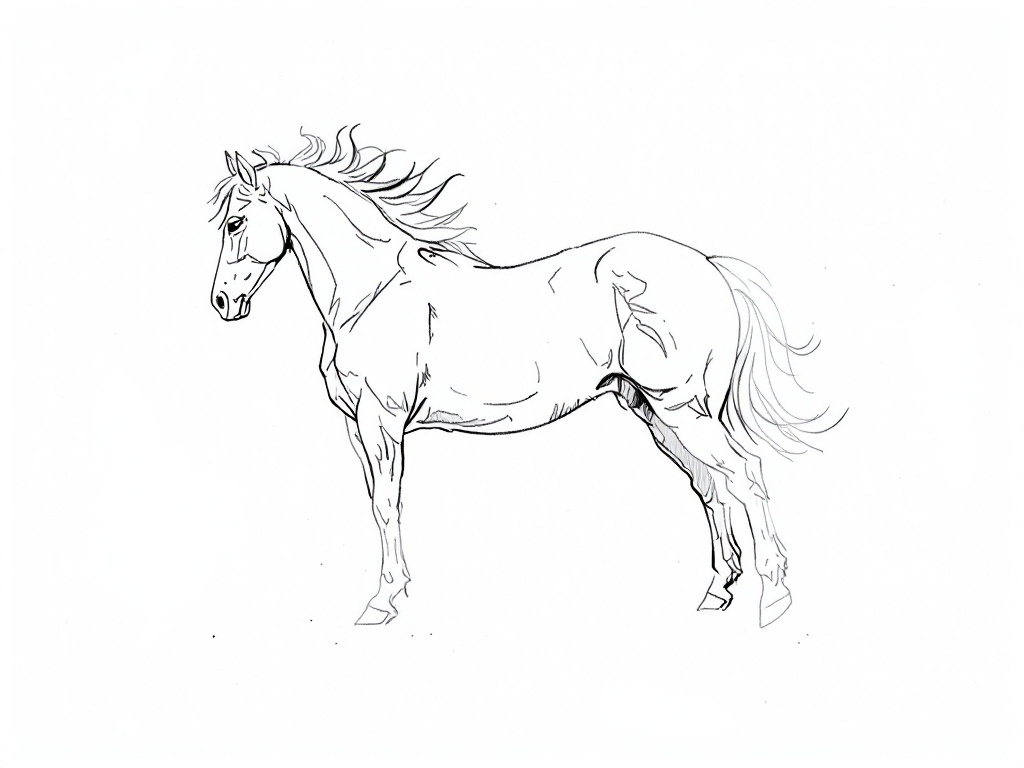
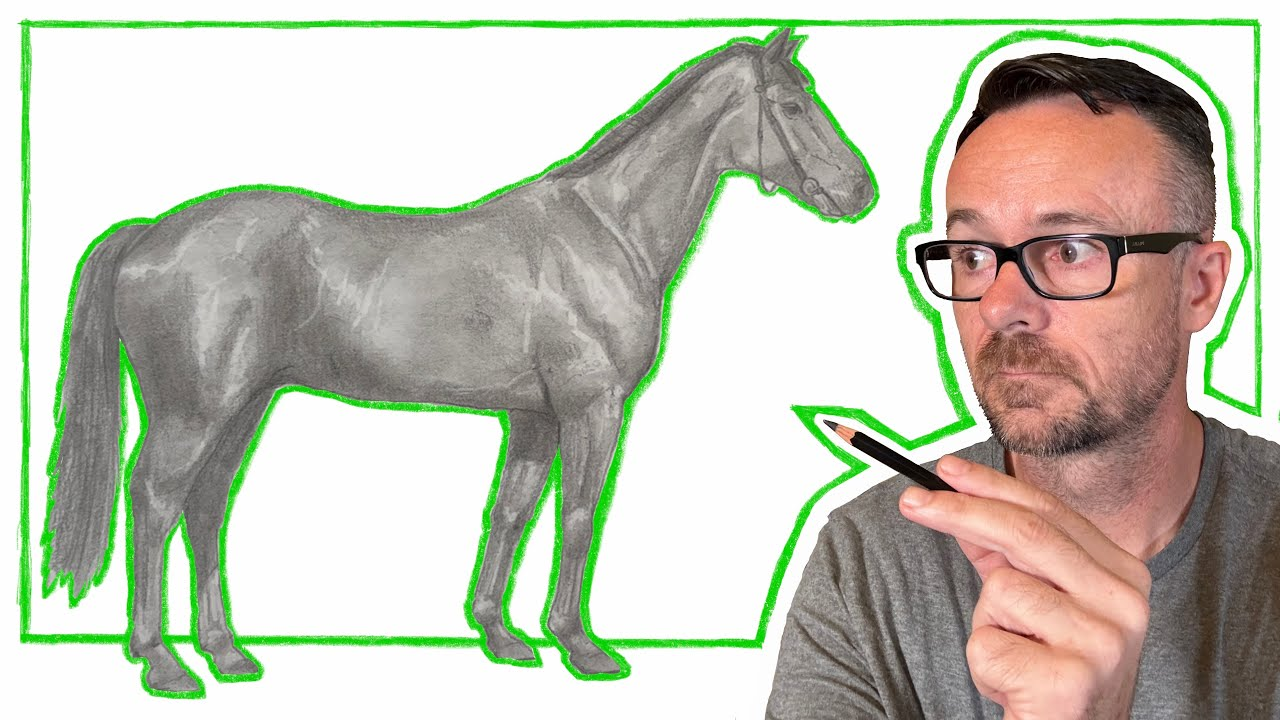
Omgöring: realistiska kapitel-indelade videor för alla 16 djur + bilder hämtade från videorna
- Alla 16 videor utbytta mot realistiska pennteckningar (ej cartoon) med verifierade kapitel/steg inuti videon
- stegTider[4] för alla djur: stegknapparna hoppar exakt till videons eget kapitel
- assets/<id>.jpg är nu bilder (thumbnail/bildrutor) hämtade från respektive video – resultatbilden kommer alltså från videon
- README uppdaterad

diff --git a/data.js b/data.js
@@ -4,8 +4,8 @@ const DJUR = [
     namn: "Katt",
     emoji: "🐱",
     nivå: 1,
-    video: "budL5362x9I",
-    stegTider: [31, 86, 116, 137],
+    video: "GS8f4120nx4",
+    stegTider: [14, 157, 232, 444],
     sök: "rita en katt steg för steg med kapitel youtube barn",
     tips: "Tips: katten har lång svans som pekar uppåt och spetsiga öron – börja med dem!",
     stegNamn: ["Grundform: kropp, ben, öron och svans", "Skuggning: mörkare under buken och på benen", "Detaljer: ögon, nos, morrhår", "Slutfinish: ljus på ryggen + vit prick i ögat"],
@@ -27,7 +27,8 @@ const DJUR = [
     namn: "Hund",
     emoji: "🐶",
     nivå: 1,
-    video: "uSnC2SdemX4",
+    video: "ay636bGEIhE",
+    stegTider: [53, 602, 313, 788],
     sök: "rita en söt hund på 1 minut steg för steg barn",
     tips: "Tips: hundens öron hänger ner – det är det som gör att det blir en hund och inte en katt!",
     stegNamn: ["Grundform: kropp, huvud och svans", "Skuggning: under buken och på benen", "Detaljer: ögon, nos, hängande öra och hovar", "Slutfinish: ljus på ryggen"],
@@ -49,7 +50,8 @@ const DJUR = [
     namn: "Kanin",
     emoji: "🐰",
     nivå: 1,
-    video: "TmsosyfwNek",
+    video: "Kt_en2uWCOg",
+    stegTider: [0, 666, 249, 745],
     sök: "rita en kanin på en minut one minute art barn",
     tips: "Tips: kaninen har ett stort bakben och två jättelånga öron – det är nyckeln till att det blir en kanin!",
     stegNamn: ["Grundform: kropp, långa öron och bakben", "Skuggning: under buken och på benen", "Detaljer: ögon, rosa nos och morrhår", "Slutfinish: ljus på ryggen"],
@@ -71,7 +73,8 @@ const DJUR = [
     namn: "Fågel",
     emoji: "🐦",
     nivå: 1,
-    video: "mHBVshs32hc",
+    video: "cPO-xH_TDhU",
+    stegTider: [0, 264, 342, 443],
     sök: "rita en fågel på en minut steg för steg barn",
     tips: "Tips: fågeln från sidan – rund kropp, litet huvud med trekantig näbb och två tunna ben.",
     stegNamn: ["Grundform: kropp, huvud, näbb och ben", "Skuggning: ljus mage, mörk vinge", "Detaljer: öga och fjädrar på vingen", "Slutfinish: ljus på huvudet"],
@@ -93,7 +96,8 @@ const DJUR = [
     namn: "Fisk",
     emoji: "🐟",
     nivå: 1,
-    video: "4PeLeY6VQmY",
+    video: "iqjm-zggyVc",
+    stegTider: [21, 305, 72, 491],
     sök: "rita en fisk steg för steg skuggning barn",
     tips: "Tips: fisken är bredast i mitten, smal vid munnen och har fenor ovanpå och under.",
     stegNamn: ["Grundform: kropp, stjärt och fenor", "Skuggning: mörk ovanpå, ljus under", "Detaljer: öga, mun, gälar och fjäll", "Slutfinish: bubblor + ljus i ögat"],
@@ -115,8 +119,8 @@ const DJUR = [
     namn: "Gris",
     emoji: "🐷",
     nivå: 1,
-    video: "DLqEfg9iHMM",
-    stegTider: [12, 35, 282, 296],
+    video: "pfdzh7_qAfQ",
+    stegTider: [14, 333, 113, 456],
     sök: "rita en gris på 1 minut steg för steg barn",
     tips: "Tips: grisens tryne ska sitta längst fram på huvudet – och svansen ska vara en liten krull!",
     stegNamn: ["Grundform: tjock kropp, tryne och krullsvans", "Skuggning: under buken och på benen", "Detaljer: ögon, näsborrar, hovar och fläck", "Slutfinish: ljusrosa rygg"],
@@ -138,7 +142,8 @@ const DJUR = [
     namn: "Anka",
     emoji: "🦆",
     nivå: 1,
-    video: "yMK7tMMjRUo",
+    video: "FRJ7mHa-Pug",
+    stegTider: [0, 175, 377, 528],
     sök: "rita en anka på en minut steg för steg barn",
     tips: "Tips: en anka simmar gärna – rita kroppen platt ovanför vattenlinjen och huvudet med platt näbb!",
     stegNamn: ["Grundform: kropp på vattnet, huvud och näbb", "Skuggning: i vattnet och under huvudet", "Detaljer: öga och vinge", "Slutfinish: ljus på huvudet + vågor"],
@@ -206,7 +211,8 @@ const DJUR = [
     namn: "Räv",
     emoji: "🦊",
     nivå: 2,
-    video: "x4lfxxYQx34",
+    video: "azT0Oev-dy0",
+    stegTider: [0, 78, 450, 900],
     sök: "rita en räv på under 3 minuter steg för steg barn",
     tips: "Tips: räven har spetsig nos, spetsiga öron och en stor buskig svans med vit spets.",
     stegNamn: ["Grundform: smal kropp, spetsig nos och stor svans", "Skuggning: under buken och längs svansen", "Detaljer: ögon, svart nos, vit bröstfläck och svansspets", "Slutfinish: ljus på ryggen"],
@@ -228,7 +234,8 @@ const DJUR = [
     namn: "Apa",
     emoji: "🐵",
     nivå: 2,
-    video: "9fiG2q9fCF4",
+    video: "EeYGoQ6Mdp4",
+    stegTider: [0, 189, 472, 772],
     sök: "rita en apa på två minuter steg för steg barn",
     tips: "Tips: sittande apa – ljus ansiktsmask inuti mörkare huvud, lång arm och en svans som krullar sig.",
     stegNamn: ["Grundform: sittande kropp, ansikte och krullsvans", "Skuggning: under buken och på armen", "Detaljer: ögon, näsborrar och mun", "Slutfinish: ljus på ansiktet"],
@@ -250,7 +257,8 @@ const DJUR = [
     namn: "Tiger",
     emoji: "🐯",
     nivå: 2,
-    video: "SOZ-v-fylWQ",
+    video: "61ixa41zCSM",
+    stegTider: [0, 379, 483, 647],
     sök: "rita en tiger på under 60 sekunder shorts steg för steg",
     tips: "Tips: tiger = stor katt med svarta ränder – rita ränderna som korta, ojämna streck över hela kroppen.",
     stegNamn: ["Grundform: kraftig kropp, öron och svans", "Skuggning: ljus buk, mörka ben", "Detaljer: svarta ränder, ögon, nos och hovar", "Slutfinish: ljus på ryggen"],
@@ -272,7 +280,8 @@ const DJUR = [
     namn: "Ko",
     emoji: "🐮",
     nivå: 2,
-    video: "ygWQuM3P8n0",
+    video: "EuuXK_YZUD8",
+    stegTider: [0, 413, 657, 765],
     sök: "rita en ko på en minut steg för steg barn",
     tips: "Tips: kossan känns igen på hornen, öronen åt sidan, rosa trynet och de svarta fläckarna.",
     stegNamn: ["Grundform: stor kropp, horn, öron och svans", "Skuggning: under buken och på benen", "Detaljer: svarta fläckar, ögon, näsborrar och hovar", "Slutfinish: ljus på ryggen"],
@@ -294,7 +303,8 @@ const DJUR = [
     namn: "Lejon",
     emoji: "🦁",
     nivå: 2,
-    video: "5rQQBkFFjrY",
+    video: "hJFkrqOMyXE",
+    stegTider: [0, 177, 476, 879],
     sök: "rita ett lejon på 2 minuter steg för steg nybörjare",
     tips: "Tips: börja med lejonet – en stor mörk cirkel bakom huvudet. Själva huvudet är cirkeln inuti.",
     stegNamn: ["Grundform: kropp, stor lejon och svans", "Skuggning: under buken, benen och runt lejonet", "Detaljer: streck i lejonet, ögon, nos och hovar", "Slutfinish: ljust bröst"],
@@ -316,7 +326,8 @@ const DJUR = [
     namn: "Häst",
     emoji: "🐴",
     nivå: 3,
-    video: "rCqMntZt-iE",
+    video: "3HYm3SAS2YU",
+    stegTider: [32, 366, 509, 740],
     sök: "rita en häst på 2 minuter steg för steg barn",
     tips: "Tips: hästen har lång hals och långt huvud – rita halsen som ett avlångt band upp från kroppen.",
     stegNamn: ["Grundform: kropp, lång hals, huvud och man", "Skuggning: under buken, benen och halsen", "Detaljer: öga, näsborre, hovar och extra man", "Slutfinish: ljus längs ryggen"],
@@ -338,7 +349,8 @@ const DJUR = [
     namn: "Elefant",
     emoji: "🐘",
     nivå: 3,
-    video: "E9WkeXzASTY",
+    video: "WykVhlv1tr4",
+    stegTider: [30, 105, 195, 270],
     sök: "rita en elefant på 2 minuter steg för steg barn",
     tips: "Tips: elefanten känns igen på de stora öronen, den långa snabeln och de pelarliknande benen.",
     stegNamn: ["Grundform: jättekropp, öra, snabel och pelarben", "Skuggning: under buken, benen, snabeln och örat", "Detaljer: öga, tånaglar och mun", "Slutfinish: stor ljus båge på ryggen"],

diff --git a/README.md b/README.md
@@ -5,9 +5,9 @@ En interaktiv teckningsguide på svenska för barn (ca 8–12 år) – tänkt so
 ## Funktioner
 
 - **16 djur** (katt, hund, kanin, fågel, fisk, gris, anka, uggla, björn, räv, apa, tiger, ko, lejon, häst, elefant) – varje djurkort visar tydligt **hur den färdiga bilden blir**.
-- **Realistiska bilder i enhetlig stil** – varje djur har en AI-genererad, realistisk pennteckning i sidvy på vit bakgrund (`assets/<id>.jpg`), som visas på djurkorten, i "Så här blir resultatet!", i quizet och som spårningsbild på ritytan. Steg-för-steg-vyn använder dessutom schematiska SVG-steg (grundform → skuggning → detaljer → slutfinish).
-- **🎬 Video-flik** – inbäddad **kort** YouTube-video (oftast 1–2 min, via `youtube-nocookie` utan spårning) bredvid en stor ruta **"✨ Så här blir resultatet!"** med slutbilden. Länkar för att öppna videon på YouTube och för att söka fler videor.
-- **👣 Steg för steg** – fyra faser anpassade för nivå ~10 år med **fokus på skuggning**: **Grundform → Skuggning → Detaljer → Slutfinish**. Varje steg har ett **relevant namn per djur** (t.ex. "Grundform: kropp, ben, öron och svans"). I steg-vyn finns dessutom en videospelare som **automatiskt hoppar till rätt del av videon när man byter steg** (YouTube IFrame API, steg 1 = början, steg 2 = ⅓ in, osv.). Progressionsindikator, SVG som byggs upp stegvis och tips per djur ingår.
+- **🖼 Resultatbilden kommer från videon** – varje djur har en bild (`assets/<id>.jpg`) hämtad från respektive YouTube-video (dess thumbnail/bildruta), som visas på djurkorten, i "Så här blir resultatet!", i quizet och som spårningsbild på ritytan. Steg-för-steg-vyn använder dessutom schematiska SVG-steg (grundform → skuggning → detaljer → slutfinish).
+- **🎬 Video-flik** – inbäddad YouTube-video – **realistisk pennteckning (ej cartoon)** som redan är **indelad i tydliga steg/kapitel inuti videon** (via `youtube-nocookie` utan spårning) bredvid en stor ruta **"✨ Så här blir resultatet!"** med slutbilden. Länkar för att öppna videon på YouTube och för att söka fler videor.
+- **👣 Steg för steg** – fyra faser anpassade för nivå ~10 år med **fokus på skuggning**: **Grundform → Skuggning → Detaljer → Slutfinish**. Varje steg har ett **relevant namn per djur** (t.ex. "Grundform: kropp, ben, öron och svans"). I steg-vyn finns dessutom en videospelare som **automatiskt hoppar till videons eget kapitel för steget** via `stegTider` i `data.js` (utan `stegTider` fördelas stegen jämnt över videons längd) (YouTube IFrame API, steg 1 = början, steg 2 = ⅓ in, osv.). Progressionsindikator, SVG som byggs upp stegvis och tips per djur ingår.
 - **🖍 Rita själv** – egen rityta med färgpalett, penselstorlek, suddgummi, möjlighet att visa målbilden svagt (spåra), rensa, spara till **Min ritgalleri** (localStorage) och ladda ner som PNG.
 - **🧠 Quiz** – "Gissa djuret!" med 8 slumpade frågor; rätt svar ger stjärnor.
 - **⭐ Stjärnor** – samla stjärnor när du klarar ett djur eller svarar rätt i quizet (sparas i webbläsarens localStorage).
@@ -37,7 +37,7 @@ cd rita
 | `styles.css` | Utseende – lekfull barnprofil, responsivt |
 | `data.js` | Alla djur: namn, emoji, svårighet, YouTube-video-id, sökfras, tips, stegNamn[4], 4 steg (SVG) + stegtexter |
 | `app.js` | All logik: routing via hash, rutnät, videospelare, videodel per steg (YT IFrame API), steg-för-steg, rityta (canvas), galleri, quiz, stjärnor |
-| `assets/<id>.jpg` | 16 AI-genererade realistiska referensbilder (en per djur) |
+| `assets/<id>.jpg` | 16 bilder hämtade från respektive YouTube-video (thumbnail/bildruta), en per djur |
 
 ## Lägga till ett nytt djur
 
@@ -63,4 +63,4 @@ Varje `steg`-fragment är SVG-innehåll i en `viewBox="0 0 200 200"`. Stegen vis
 
 ## Videolänkar
 
-Videorna är valda för att vara **korta** **och redan indelade i steg inuti själva videon** – med kapitel/tidsstämplar ("0:00 Intro, 0:31 Step 1 …") i beskrivningen. När ett djur har `stegTider` i `data.js` hoppar spelaren i steg-vyn **exakt till videons eget kapitel** för steg 1–4; annars fördelas stegen jämnt över videons längd. Katt, gris, uggla och björn har verifierade kapitel just nu. Vill du byta ut en video ändrar du bara `video`-id:t (och helst `stegTider`) i `data.js`. ”Fler videor”-länken går till en YouTube-sökning på svenska.
+Videorna är valda för att vara **realistiska (ej cartoon) och redan indelade i tydliga steg/kapitel inuti själva videon** – kapitel som "0:53 Circle", "10:02 shading" eller "PAUSA efter varje steg" (verifierade mot varje videos kapitellista på YouTube). Alla 16 djur har `stegTider` i `data.js`, så spelaren i steg-vyn hoppar **exakt till videons eget kapitel** för steg 1–4. Bilderna i `assets/` är hämtade från respektive video. Vill du byta ut en video ändrar du bara `video`-id:t (och helst `stegTider`) i `data.js` – hämta gärna en ny bild från videon också (`https://i.ytimg.com/vi/<id>/maxresdefault.jpg`). ”Fler videor”-länken går till en YouTube-sökning på svenska.
